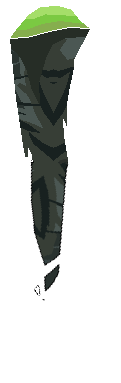
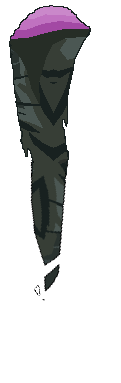
breytt rainbow í shine. shine er staðsett rétt fyrir framan platforma. shine hreyfist upp og niður og flöktir. Bakrunnur er breytt úr bleikum í bláan himin. Platformum er breytt úr grænum í bleika. Shine er ekki tilbúið, fínpúss á mrg

diff --git a/Shine.js b/Shine.js
@@ -1,0 +1,122 @@
+function Shine(x,y,platNum) {
+    //common inherited setup logic from Entity
+    this.setup(x);
+
+    //set width and height
+    this.width = 150;
+    this.height = 150;
+
+    /*
+    var numberOfLivePlats = entityManager._platforms.length;            //the number of platforms that are not dead
+    var newestPlat = entityManager._platforms[numberOfLivePlats-1];     //the platform that is newest of them all
+
+    //random staðsetningar for now, meðan að platformarnir eru ekki final.
+    //set x position based on newest platform x-position
+    this.x = util.randRange(newestPlat.getPos().posX, newestPlat.getPos().posX+newestPlat.getWidth()+150);            //set the x position of the Shine
+
+    //set y position based on newest platform y-position
+    this.y = util.randRange(newestPlat.getPos().posY-40, newestPlat.getPos().posY-150);;                              //set the y position of the Shine
+    
+    //set the velosity to the same as the platfoms
+    this.vx = newestPlat.vx;
+    */
+
+    var offset = 20; 
+    /*
+    if (platNum === 1) offset = g_images.large.width*2.6;
+    if (platNum === 4) offset = g_images.normal3.width*2.4; 
+    if (platNum === 3) offset = g_images.normal2.width*2.3;
+    */
+
+    // set the position of the gem
+    this.x = x-offset-this.width;                                             
+
+    // set the y position of the gem
+    this.y = y-offset-this.height;        
+
+
+    //has the Shine been caught or not?
+    this.isCaught = false;
+
+    //combo
+    this.combo = false; 
+
+    // framecounter for explosion
+    this.frameCounter = 0; 
+
+    // number of images to run through while exploding
+    this.numberOfFrames = g_shineSprite.length;
+
+    // the amount of pixels we want to move the shine up and down
+    this.dist = 20; 
+
+    // the frames we are goint to spend on each distance
+    this.moveCounter = this.dist;
+
+    // are we movint up or down?
+    this.up = true; 
+    this.down = false;   
+
+    //the name of the entity 
+    this.type = "Shine";
+};
+
+
+Shine.prototype = new Entity();
+
+
+Shine.prototype.render = function(ctx){
+    //only draw if game is not over and the Shine has not been caught
+    if (!main._isGameOver && !this.isCaught) {
+        //if the Shine has not been hit draw a Shine
+        g_shineSprite[Math.floor(this.frameCounter)].drawAtAndEnlarge(
+            ctx,this.x,this.y,this.width,this.height);
+    }
+};
+
+Shine.prototype.update = function(du) {
+    //unregister from spatial manager
+    spatialManager.unregister(this);
+
+    //if the unicorn has caught the Shine it shoud die
+    if (this.isCaught) this._isDeadNow;
+
+    //kill Shine if it falls out of the canvas
+    //allso has to die if the 'Kall' hits it.
+    if (this.x <= camera.getPos().posX - this.width) {
+        //this.lostCombo(); 
+        this.kill();
+    }
+
+    // this controlls how fast we change frames on the shine
+    if (this.frameCounter < this.numberOfFrames-1) this.frameCounter += 0.05;
+    else this.frameCounter = 0; 
+
+    // this controlls the movement of the shine
+    if (this.up === true && this.moveCounter >= 0) {
+        this.moveCounter -= 0.5; 
+        this.y++;
+    } else {
+        this.up = false; 
+        this.down = true; 
+    }
+
+    if (this.down === true && this.moveCounter <= this.dist) {
+        this.moveCounter += 0.5;
+        this.y--;
+    } else {
+        this.down = false; 
+        this.up = true; 
+    }
+
+
+    //if isDead
+    if (this._isDeadNow) {
+        return entityManager.KILL_ME_NOW;
+    }
+
+
+    //re-register to spatial manager
+    if (!this._isDeadNow) spatialManager.register(this);
+};
+

diff --git a/entityManager.js b/entityManager.js
@@ -31,7 +31,7 @@ _platforms : [],
 _dummies : [],
 _gem : [],
 _knifes :[],
-_rainbow : [],
+_shine : [],
 _combo : [],
 
 
@@ -50,7 +50,7 @@ KILL_ME_NOW : -1,
 // i.e. thing which need `this` to be defined.
 //
 deferredSetup : function () {
-    this._categories = [this._platforms, this._dummies, this._gem, this._knifes, this._rainbow, this._combo];
+    this._categories = [this._platforms, this._dummies, this._gem, this._knifes, this._shine, this._combo];
 },
 
 init: function() {
@@ -66,6 +66,7 @@ platSet1:function(makeGem){
     this._platforms.push(new Platform(1,true,x1, y1));
     this._platforms.push(new Platform(4,false,x2,y2));
     if (makeGem <= 8) this._gem.push(new Gem(x2,y2,4));
+    this._shine.push(new Shine(x1,y1,1));
 },
 
 platSet2:function(makeGem){
@@ -79,6 +80,7 @@ platSet2:function(makeGem){
     this._platforms.push(new Platform(4,false,x2,y2));
     this._platforms.push(new Platform(4,true,x3,y3));
     if (makeGem <= 8) this._gem.push(new Gem(x2,y2,4));
+    this._shine.push(new Shine(x3,y3,4));
 },
 
 platSet3:function(makeGem){
@@ -86,6 +88,7 @@ platSet3:function(makeGem){
     var mainY = 400;
     this._platforms.push(new Platform(1,true,x, mainY));
     if (makeGem <= 8) this._gem.push(new Gem(x,mainY,1));
+    this._shine.push(new Shine(x,mainY,1));
 },
 
 platSet4:function(makeGem){
@@ -99,6 +102,7 @@ platSet4:function(makeGem){
     this._platforms.push(new Platform(5,false,x2, y2));
     this._platforms.push(new Platform(3,true, x3, y3));
     if (makeGem <= 8) this._gem.push(new Gem(x2,y2,5));
+    this._shine.push(new Shine(x3,y3,3));
 },
 
 platSet5:function(makeGem){
@@ -107,10 +111,11 @@ platSet5:function(makeGem){
     var x3 = x1+1000;
     var y1 = 330;
     var y2 = 230;
-    this._platforms.push(new Platform(3,false,x1, y1));
+    this._platforms.push(new Platform(3,false,x1,y1));
     this._platforms.push(new Platform(7,false,x2,y2));
-    this._platforms.push(new Platform(2,true, x3, y2));
+    this._platforms.push(new Platform(2,true, x3,y2));
     if (makeGem <= 8) this._gem.push(new Gem(x2,y2,7));
+    this._shine.push(new Shine(x3,y2,2));
 },
 
 
@@ -120,7 +125,7 @@ setPlatforms: function(){
     var plats = Math.floor(util.randRange(0,16));
     //creates a random number, when the number is 1 we create a gem and butterfly
     var makeGem =  Math.floor(util.randRange(0,10));
-    var makeButterfly =  Math.floor(util.randRange(0,2));
+    //var makeButterfly =  1;/*Math.floor(util.randRange(0,2));*/
 
     for(var entity in this._platforms){
 
@@ -140,12 +145,12 @@ setPlatforms: function(){
             //make a new gem when 'makeGem' is equal to 1
             //if (makeGem <= 8) this._gem.push(new Gem(a));
             //make a new butterfly when 'makeButterfly' is equal to 1
-            if (makeButterfly === 1) {
-                this._rainbow.push(new Rainbow(a));
-                if (Rainbow.isCaught) {
+            //if (makeButterfly === 1) {
+                //this._shine.push(new Shine(a));
+                if (Shine.isCaught) {
                     this._combo.push(new Combo(a));
                 }
-            }
+            //}
 
         }
     }

diff --git a/RUNNING.js b/RUNNING.js
@@ -290,8 +290,12 @@ function requestPreloads() {
         Gameover : "images/Lives/gameover.png",
         Background : "images/background.png",
 
-        //the rainbow image
-        Rainbow : "images/Rainbow/rainbow_000.png"
+        //the shine image
+        Shine0 : "images/Shine/shine_000.png",
+        Shine1 : "images/Shine/shine_001.png",
+        Shine2 : "images/Shine/shine_002.png",
+        Shine3 : "images/Shine/shine_001.png",
+        Shine4 : "images/Shine/shine_000.png"
 
 
     };
@@ -307,7 +311,7 @@ var g_downSprite=[];
 var g_dashSprite=[];
 var g_gemSprites = [];      // the gem 
 var g_explosionSprite=[];   // the explosion 
-var g_rainbowSprite = [];   // the rainbow 
+var g_shineSprite = [];   // the shine 
 
 function preloadDone() {
     g_sprites.Background = new Sprite(g_images.Background);
@@ -412,21 +416,23 @@ function preloadDone() {
     g_gemSprites[5] = new Sprite(g_images.Gem5);
 
     // the explosion 
-    g_explosionSprite[0]=new Sprite(g_images.Explosion0);
-    g_explosionSprite[1]=new Sprite(g_images.Explosion1);
-    g_explosionSprite[2]=new Sprite(g_images.Explosion2);
-    g_explosionSprite[3]=new Sprite(g_images.Explosion3);
-    g_explosionSprite[4]=new Sprite(g_images.Explosion4);
-    g_explosionSprite[5]=new Sprite(g_images.Explosion5);
-    g_explosionSprite[6]=new Sprite(g_images.Explosion6);
-    g_explosionSprite[7]=new Sprite(g_images.Explosion7);
-    g_explosionSprite[8]=new Sprite(g_images.Explosion8);
-    g_explosionSprite[9]=new Sprite(g_images.Explosion9);
-    g_explosionSprite[10]=new Sprite(g_images.Explosion10);
-    g_explosionSprite[11]=new Sprite(g_images.Explosion11);
+    g_explosionSprite[0] = new Sprite(g_images.Explosion0);
+    g_explosionSprite[1] = new Sprite(g_images.Explosion1);
+    g_explosionSprite[2] = new Sprite(g_images.Explosion2);
+    g_explosionSprite[3] = new Sprite(g_images.Explosion3);
+    g_explosionSprite[4] = new Sprite(g_images.Explosion4);
+    g_explosionSprite[5] = new Sprite(g_images.Explosion5);
+    g_explosionSprite[6] = new Sprite(g_images.Explosion6);
+    g_explosionSprite[7] = new Sprite(g_images.Explosion7);
+    g_explosionSprite[8] = new Sprite(g_images.Explosion8);
+    g_explosionSprite[9] = new Sprite(g_images.Explosion9);
+    g_explosionSprite[10] = new Sprite(g_images.Explosion10);
+    g_explosionSprite[11] = new Sprite(g_images.Explosion11);
 
-    // the rainbow
-    g_rainbowSprite= new Sprite(g_images.Rainbow);
+    // the shine
+    g_shineSprite[0] = new Sprite(g_images.Shine0);
+    g_shineSprite[1] = new Sprite(g_images.Shine1);
+    g_shineSprite[2] = new Sprite(g_images.Shine2);
 
     entityManager.init();
     init();

diff --git a/Kall.js b/Kall.js
@@ -60,8 +60,8 @@ function Kall(descr) {
 
     this.type =  "Kall";
 
-    //collision helper with rainbowCollide
-    this.hasRainbowCombo = false;
+    //collision helper with shineCollide
+    this.hasShineCombo = false;
     this.combo = 0;
 };
 
@@ -163,8 +163,8 @@ Kall.prototype.collidesWith = function(du){
             this.gemCollide(ent[i]);
           } else if (ent[i].getType() === "Platform"){    //collision with the platform
             this.platformCollide(ent[i]);
-          } else if (ent[i].getType() === "Rainbow") {    //collision with rainbow
-            this.rainbowCollide(ent[i]);
+          } else if (ent[i].getType() === "Shine") {    //collision with shine
+            this.shineCollide(ent[i]);
           }
         }
     } else {
@@ -242,15 +242,15 @@ Kall.prototype.platformCollide = function(entity){
     }
 };
 
-Kall.prototype.rainbowCollide = function (rainbow) {
+Kall.prototype.shineCollide = function (shine) {
 
   //TODO LAGA ÞETTA ÞANNIG AÐ COMBO DETTI ÚT.
 
-      //console.log(this.hasRainbowCombo);
-      this.hasRainbowCombo = true;
+      //console.log(this.hasShineCombo);
+      this.hasShineCombo = true;
      // console.log(this.score);
-      rainbow.kill();
-      if (this.hasRainbowCombo) {
+      shine.kill();
+      if (this.hasShineCombo) {
         this.combo++;
         this.score += this.combo*10;
       } else {
@@ -378,7 +378,7 @@ Kall.prototype.render = function(ctx){
 
     this.drawLives(ctx);
     this.drawScore(ctx);
-    if (this.hasRainbowCombo) {
+    if (this.hasShineCombo) {
       this.drawCombo(ctx, this.x, this.y);
     }
 };

diff --git a/Gem.js b/Gem.js
@@ -21,7 +21,7 @@ function Gem(x,y,platNum) {
     this.x = x+offset-(this.width/2);                                             
 
     // set the y position of the gem
-    this.y = y-this.height;        
+    this.y = y-this.height+10;        
 
     // is the gem exploding?
     this.isExploding = false;

diff --git a/index.html b/index.html
@@ -29,7 +29,7 @@
     <script src="Platforms.js"></script>
     <script src="Kall.js"></script>
     <script src="Gem.js"></script>
-    <script src="Rainbow.js"></script>
+    <script src="Shine.js"></script>
 
     <script src="Knife.js"></script>
 
